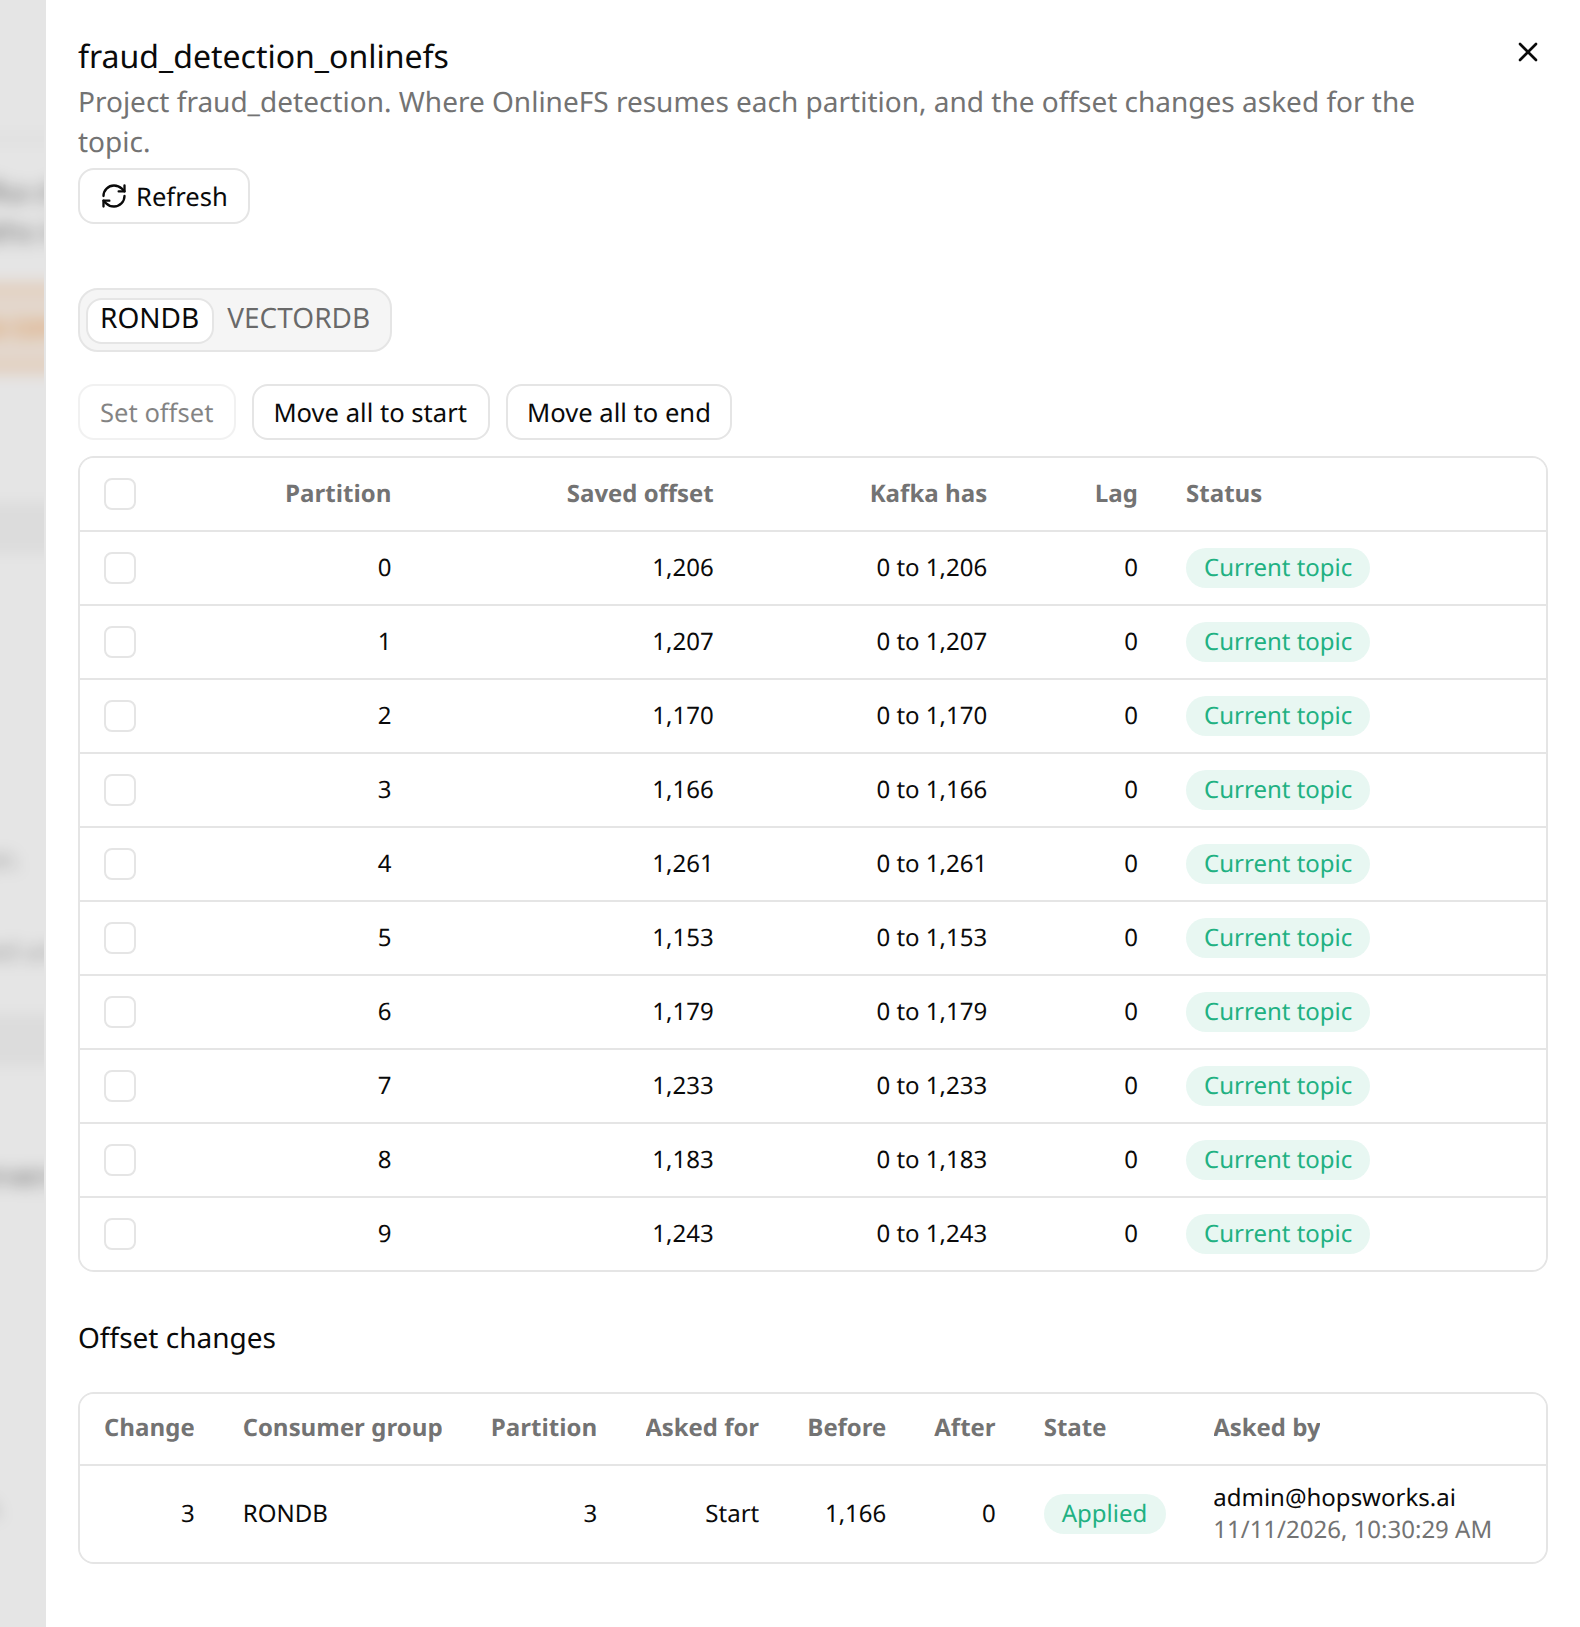
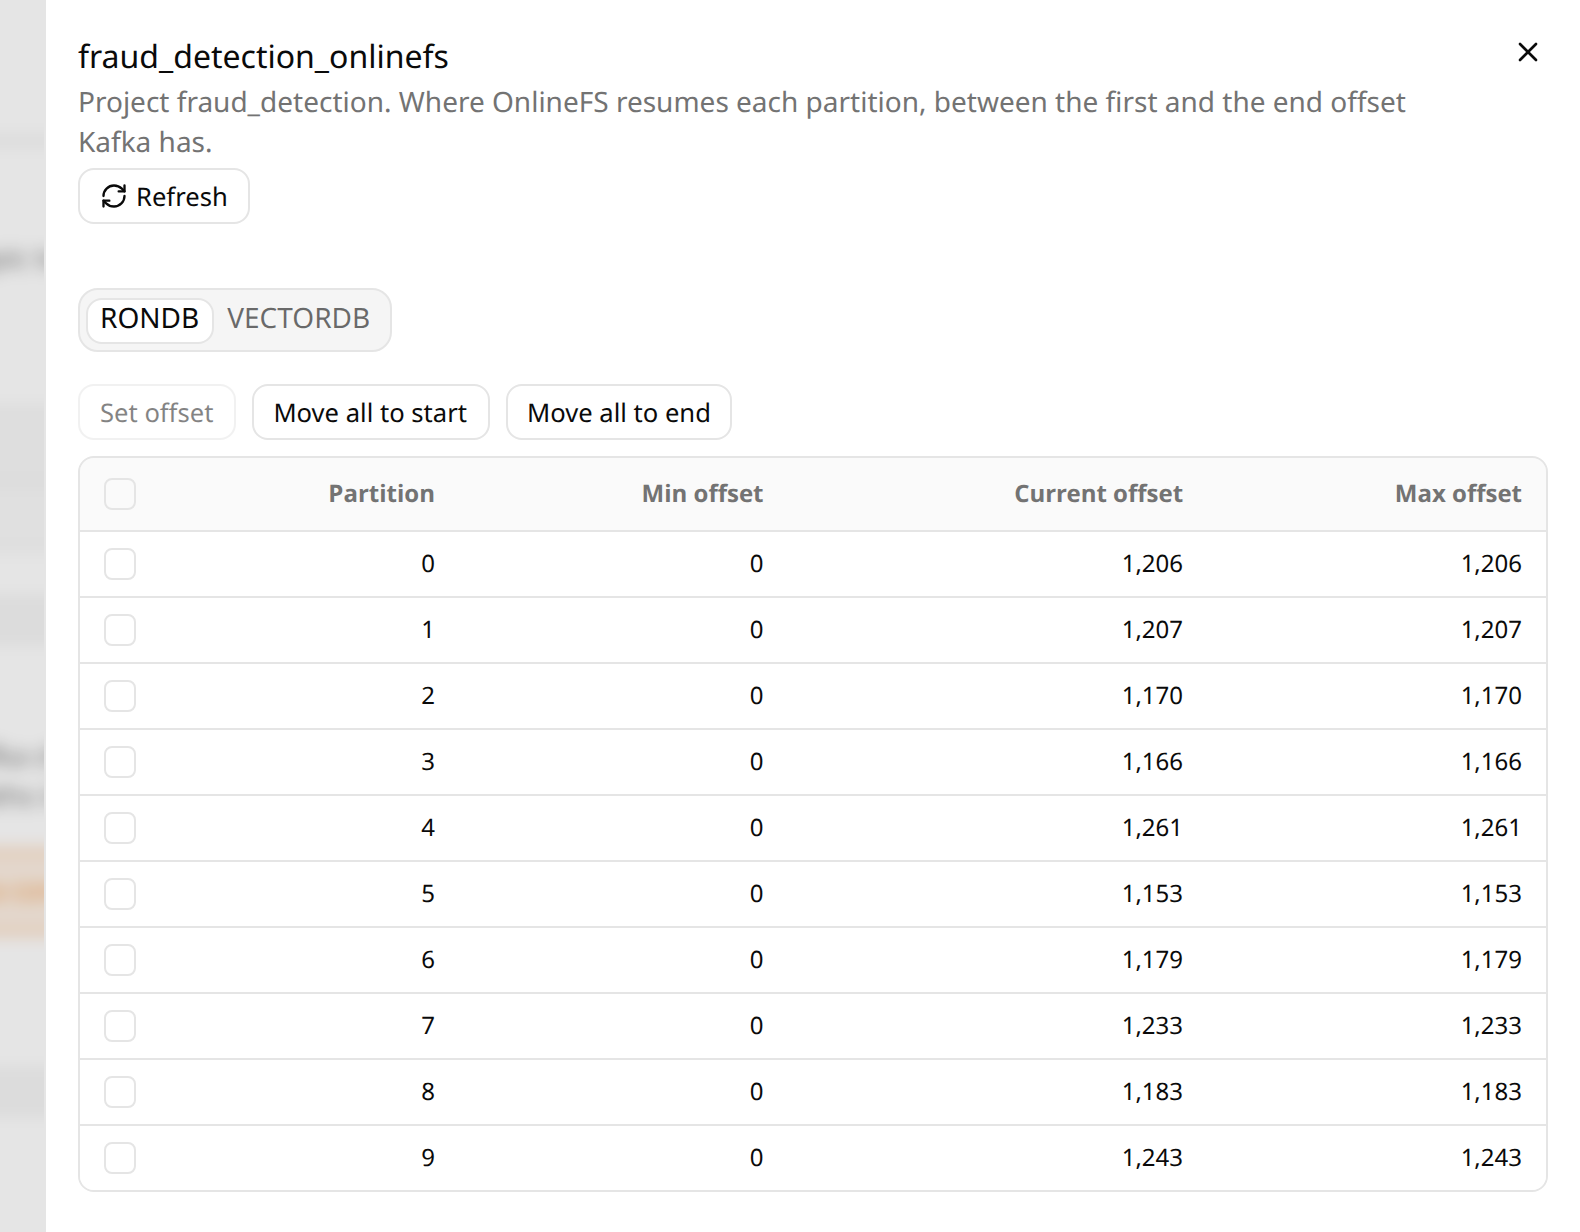
[FSTORE-2155] onlinefs: stale offsets in kafka_offsets are reused after a backup/restore recreates the online topics https://hopsworks.atlassian.net/browse/FSTORE-2155
logicalclocks.github.io: the two Kafka offsets captures are retaken
with the simplified view, on bubriks-2 upgraded from the 5.2.4 release
to the PR heads (1440 css at 2x, cropped with capture_crop.py). The
upgrade guide's completion check says the offsets-schema log has the
completion line rather than ends with it, since the Kafka client logs
its close after it.

diff --git a/docs/setup_installation/admin/upgrade.md b/docs/setup_installation/admin/upgrade.md
@@ -644,7 +644,7 @@ kubectl exec mysqlds-0 -n "$NAMESPACE" -c mysqld -- env MYSQL_PWD="$ROOT_PW" mys
 
 OnlineFS then has no offsets for the online topics of that project and reads them from their earliest retained record, so it writes the records Kafka still retains to the online feature store again, and skips none.
 
-The step has finished when every OnlineFS pod is `Running`, the `offsets-schema` log ends with `Moved the per-project kafka_offsets into onlinefs.kafka_offsets` or `No per-project kafka_offsets left to move`, and no project table is left:
+The step has finished when every OnlineFS pod is `Running`, the `offsets-schema` log has `Moved the per-project kafka_offsets into onlinefs.kafka_offsets` or `No per-project kafka_offsets left to move`, and no project table is left:
 
 ```sh
 kubectl exec mysqlds-0 -n "$NAMESPACE" -c mysqld -- env MYSQL_PWD="$ROOT_PW" mysql -uroot -N -e \

diff --git a/docs/setup_installation/admin/onlinefs.md b/docs/setup_installation/admin/onlinefs.md
@@ -291,7 +291,7 @@ Each row shows the project, the topic and its number of partitions in Kafka.
 The search matches the project or the topic name.
 
 <figure>
-  <img src="../../../assets/images/admin/onlinefs/offsets_card.png" alt="The Kafka offsets card listing two topics of the fraud_detection project with their partition counts and pending changes" />
+  <img src="../../../assets/images/admin/onlinefs/offsets_card.png" alt="The Kafka offsets card listing the topic of the fraud_detection project with its number of partitions" />
   <figcaption>The topics OnlineFS consumes</figcaption>
 </figure>
 
